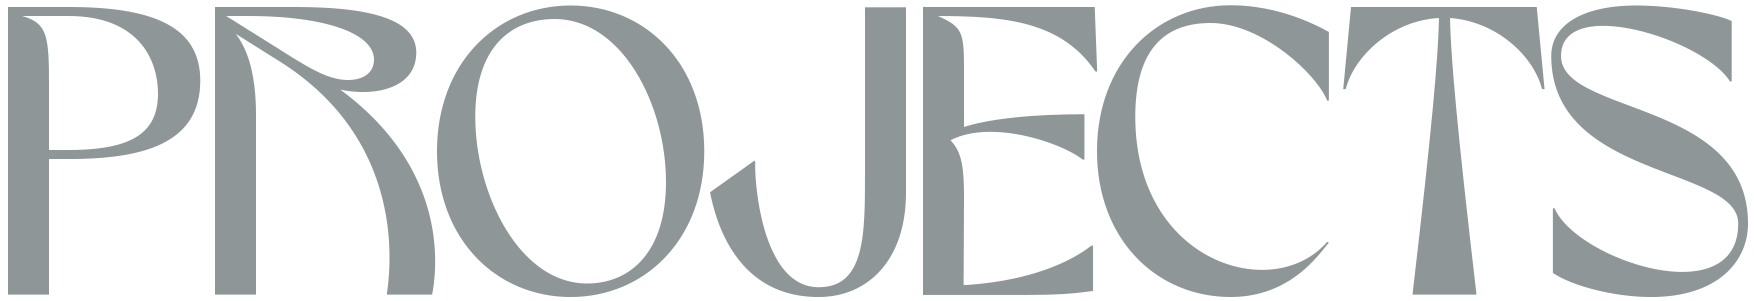
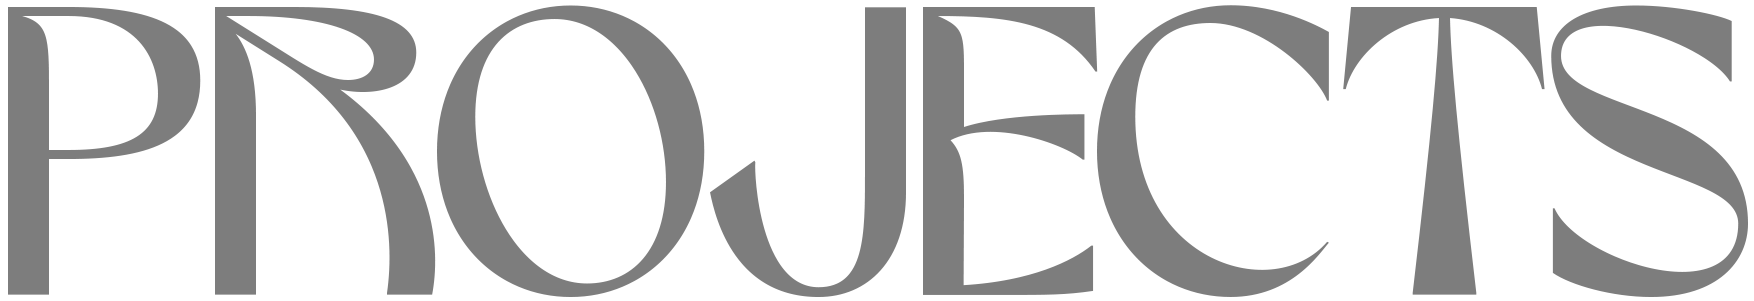
Some Improvements in titles and projects scroller global div created

Changed region(s): [[0.0, 0.0, 1.0, 0.9867]]

diff --git a/css/index.css b/css/index.css
@@ -65,6 +65,7 @@ nav ul li a {
     text-decoration: none;
     color: black;
     font-weight: 800;
+    font-family: madeTommy;
 }
 
 img.section-title{
@@ -107,13 +108,12 @@ section#portfolio-section{
     scroll-snap-align: start;
 }
 section#projects-section{
-    background-color: yellow;
     display: flex;
     justify-content: center;
-    align-items: center;
+    align-items: flex-start;
+    scroll-snap-align: start;
     width: 100vw;
     height: 100vh;
-    scroll-snap-align: start;
 }
 section#contact-section{
     background-color: purple;
@@ -293,7 +293,7 @@ div.aboutme-thirddiv-skills{
 
 div.global-abskilldiv{
     background-color: rgba(0,0,0, 0.1);
-    border-radius: 20px;
+    border-radius: 10px;
     width: 280px;
     height: 350px;
     margin: 10px;
@@ -381,4 +381,12 @@ div.ab-skills-text{
     width: 90%;
     height: 200px;
     text-align: center;
+}
+
+/*PROJECTS SECTION*/
+div.projects-scroller-div{
+    width: 100%;
+    height: 80%;
+    background-color: aqua;
+    align-self: flex-end;
 }

diff --git a/index.html b/index.html
@@ -185,7 +185,10 @@
             </div>
         </section>
         <section id="projects-section">
-            <h1>Page Four</h1>
+            <img src="img/titles/header-projects.png" class="section-title">
+            <div class="projects-scroller-div">
+                
+            </div>
         </section>
         <section id="contact-section">
             <h1>Page Five</h1>
